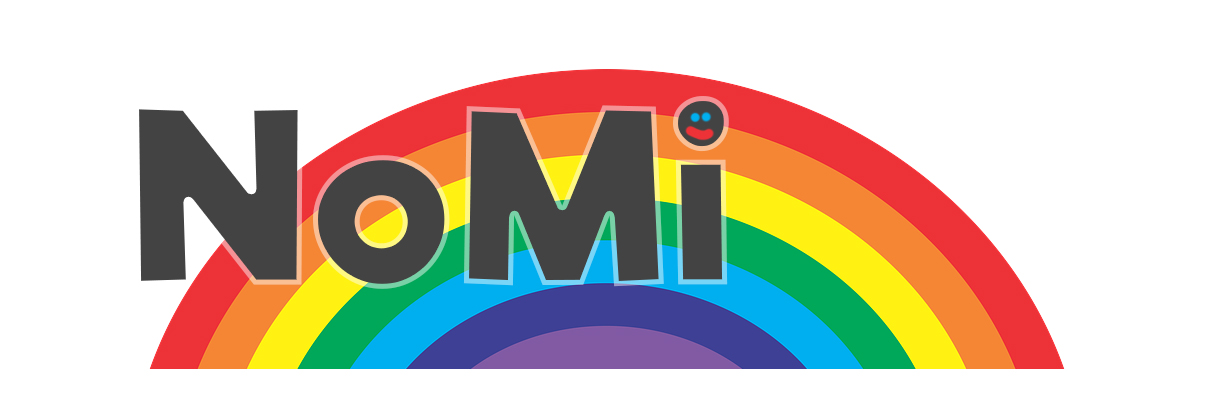
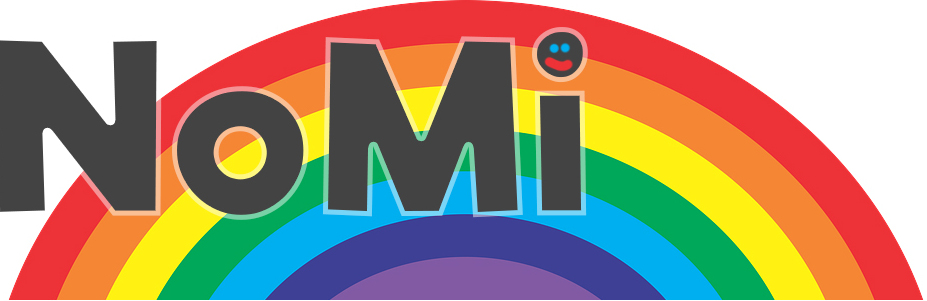
Moved stuff around and did a bit of styling

diff --git a/src/landing-page/landing-page.js b/src/landing-page/landing-page.js
@@ -1,26 +1,29 @@
 import React, { Component } from 'react';
-import './App.css';
+import './landing-page.css';
 import { Button, Grid, Image } from 'semantic-ui-react';
 
-class App extends Component {
+class LandingPage extends Component {
   render() {
     return (
       <div>
+        <div className="headerContainer">
         <Grid>
           <Grid.Row>
             <Grid.Column width={3}>
-              <Image src="/nomi.jpg" />
+              <Image size="medium" src="/nomi.jpg" />
             </Grid.Column>
             <Grid.Column width={10} />
             <Grid.Column width={3} textAlign="right" verticalAlign="middle">
-              <Button>Register</Button>
-              <Button>Login</Button>
+              <Button basic color='black'>Register</Button>
+              <Button basic color='black'>Login</Button>
             </Grid.Column>
           </Grid.Row>
         </Grid>
+        </div>
+        <div className="descriptionContainer"/>
       </div>
     );
   }
 }
 
-export default App;
+export default LandingPage;

diff --git a/src/index.js b/src/index.js
@@ -1,8 +1,8 @@
 import React from 'react';
 import ReactDOM from 'react-dom';
 import './index.css';
-import App from './App';
+import LandingPage from './landing-page/landing-page';
 import registerServiceWorker from './registerServiceWorker';
 
-ReactDOM.render(<App />, document.getElementById('root'));
+ReactDOM.render(<LandingPage />, document.getElementById('root'));
 registerServiceWorker();

diff --git a/src/landing-page/landing-page.test.js b/src/landing-page/landing-page.test.js
@@ -1,9 +1,9 @@
 import React from 'react';
 import ReactDOM from 'react-dom';
-import App from './App';
+import LandingPage from './landing-page';
 
 it('renders without crashing', () => {
   const div = document.createElement('div');
-  ReactDOM.render(<App />, div);
+  ReactDOM.render(<LandingPage />, div);
   ReactDOM.unmountComponentAtNode(div);
 });

diff --git a/src/landing-page/landing-page.css b/src/landing-page/landing-page.css
@@ -1,0 +1,8 @@
+.headerContainer {
+  height: 6rem;
+}
+
+.descriptionContainer {
+  background: #F2F4F4;
+  height: 50vh;
+}
